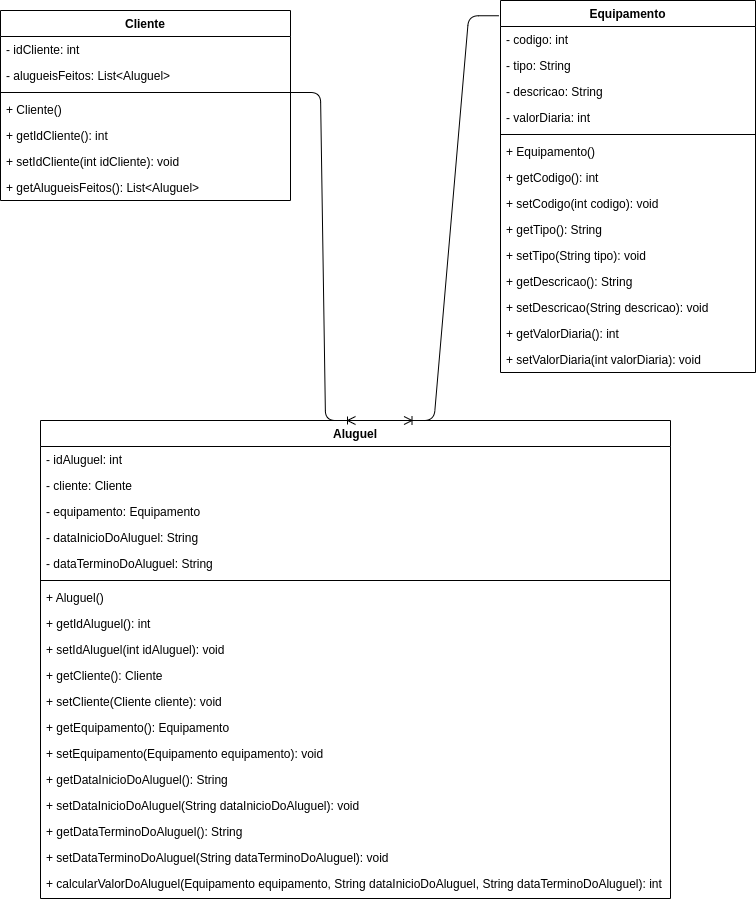
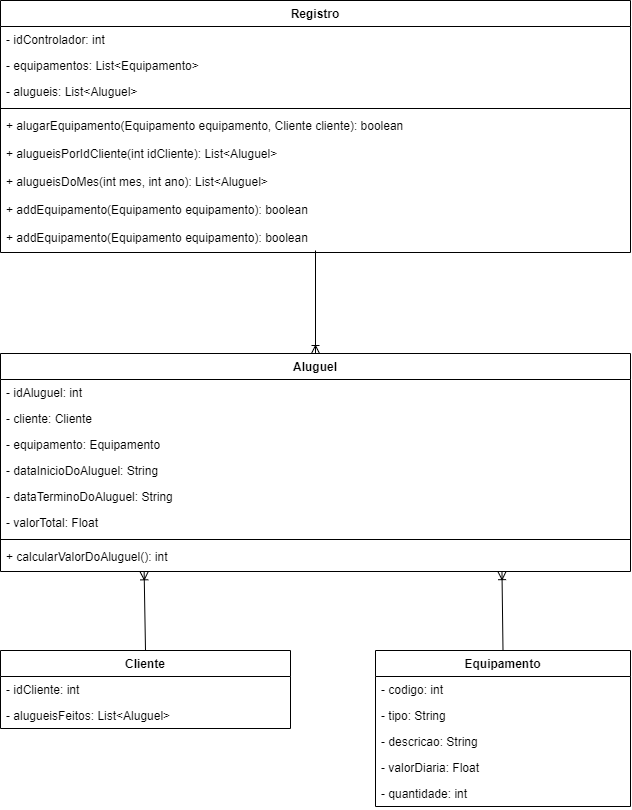
ajustando adjetivos do readme, removendo atributos e métodos desnecessários e criando classe controladora

diff --git a/README.md b/README.md
@@ -1,8 +1,8 @@
 [![Open in Visual Studio Code](https://classroom.github.com/assets/open-in-vscode-718a45dd9cf7e7f842a935f5ebbe5719a5e09af4491e668f4dbf3b35d5cca122.svg)](https://classroom.github.com/online_ide?assignment_repo_id=11609806&assignment_repo_type=AssignmentRepo)
 # Controle de Aluguéis de Equipamentos - Grupo 5
-O projeto visa gerenciar o sistema de controle de aluguéis de uma empresa que fornece equipamentos para construção civil. O sistema registra detalhes essenciais de cada aluguel, como cliente, tipo de equipamento, datas de início e término do aluguel, além do valor diário.
+O projeto visa gerenciar o sistema de controle de aluguéis de uma empresa que fornece equipamentos para construção civil. O sistema registra detalhes de cada aluguel, como cliente, tipo de equipamento, datas de início e término do aluguel, além do valor diário.
 
-O objetivo é fornecer à empresa uma ferramenta funcional que facilite a administração de aluguéis e a emissão precisa de faturas aos clientes.
+O objetivo é fornecer à empresa uma ferramenta que facilite a administração de aluguéis e a emissão de faturas aos clientes.
 
 ## Alunos integrantes da equipe
 
